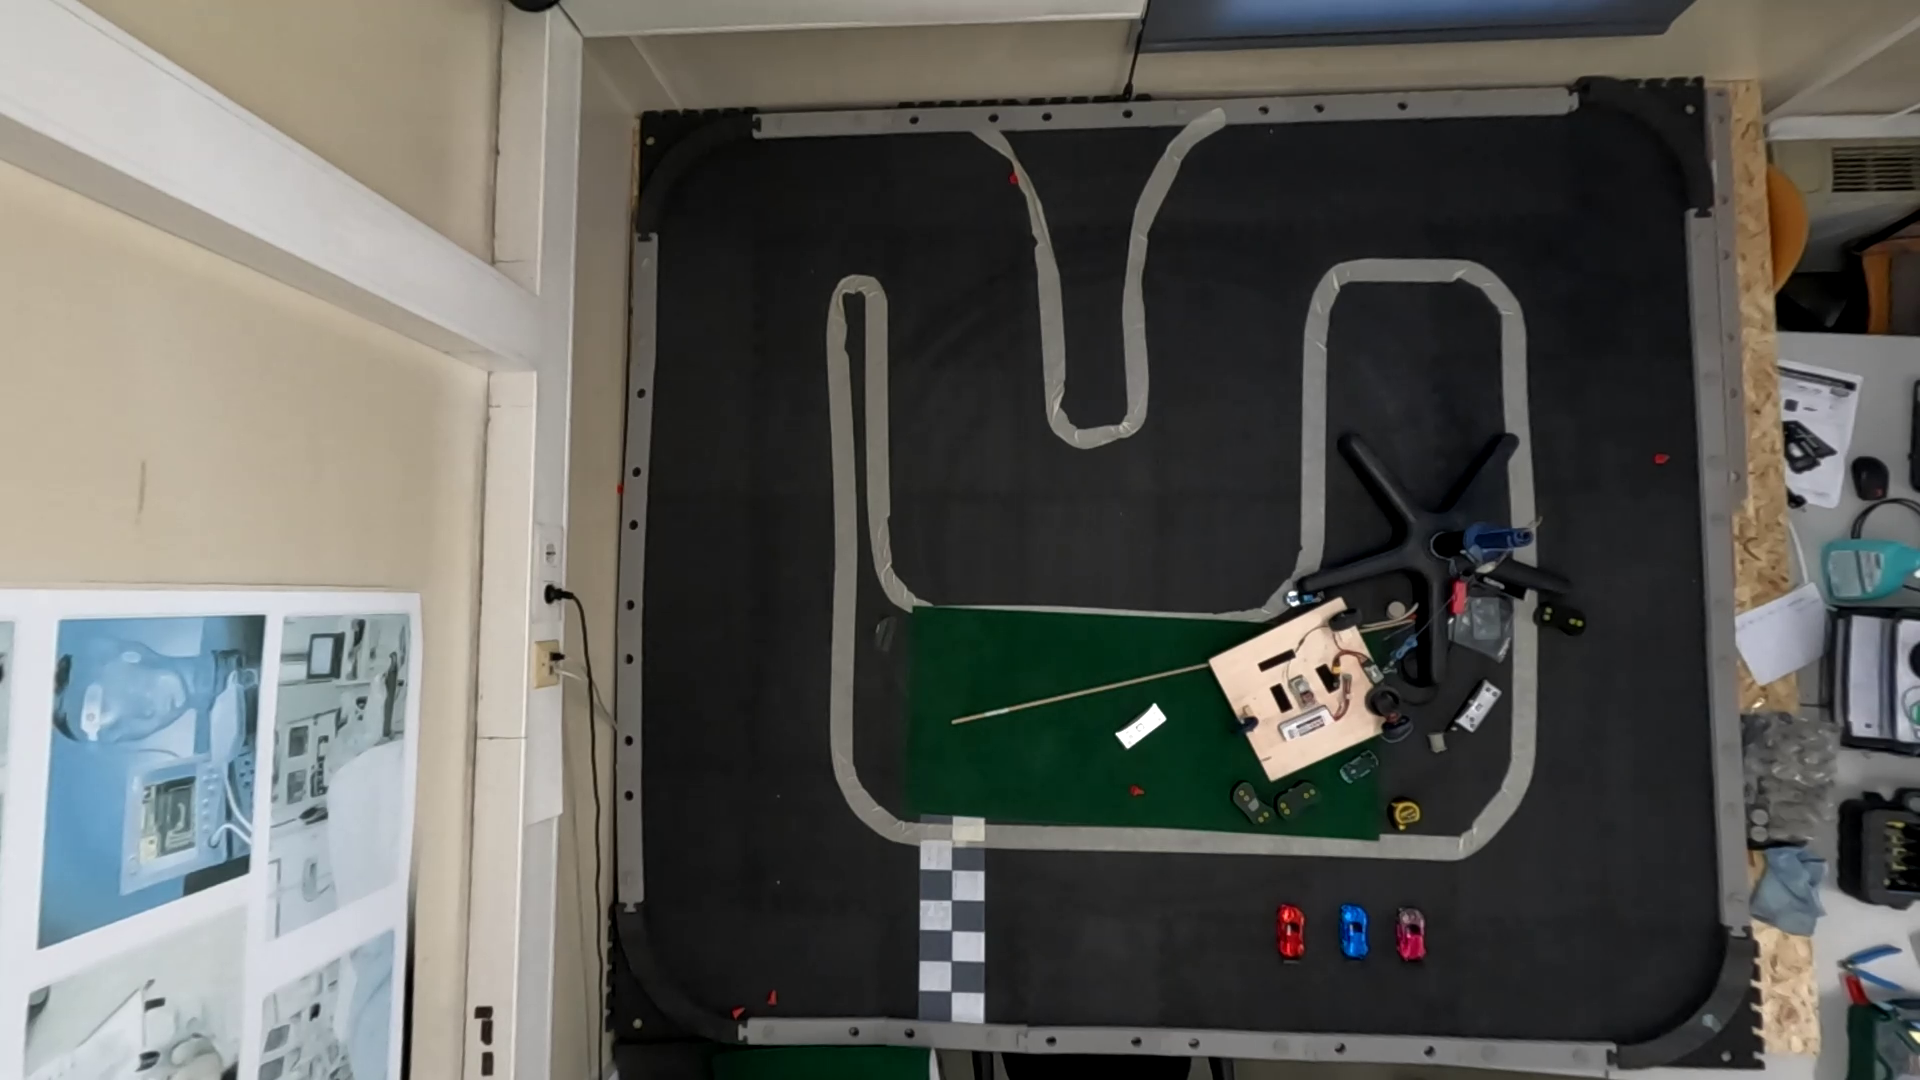
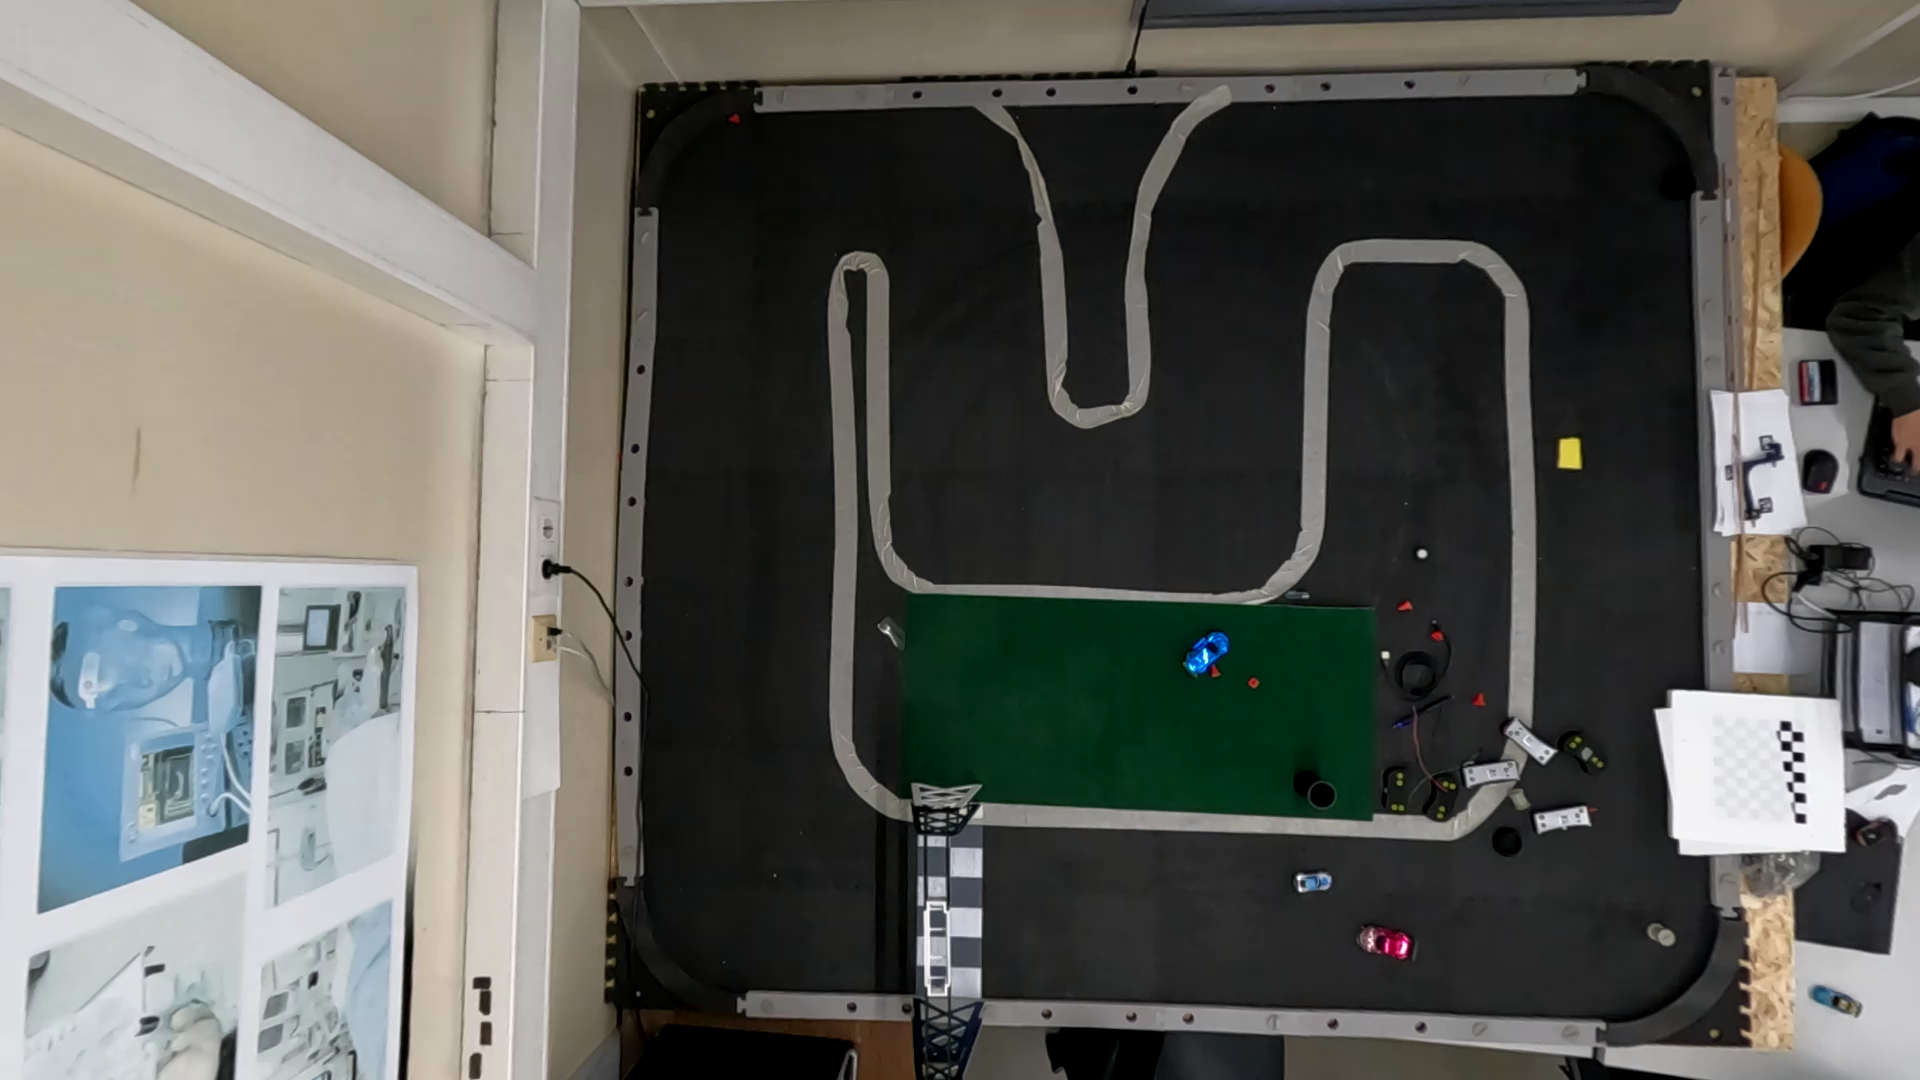
Yellow instead of red

diff --git a/src/Camera/camera.py b/src/Camera/camera.py
@@ -187,30 +187,31 @@ class camera:
             # Convert the image to HSV color space
             image_hsv = cv2.cvtColor(image, cv2.COLOR_BGR2HSV)
 
-            # Define the lower and upper bounds for red color in HSV
+            '''# Define the lower and upper bounds for red color in HSV
             lower_red1 = np.array([0, 100, 100])
             upper_red1 = np.array([5, 255, 255])
             lower_red2 = np.array([175, 100, 100])
-            upper_red2 = np.array([180, 255, 255])
+            upper_red2 = np.array([180, 255, 255])'''
+            lower_yellow = np.array([20, 100, 100])   # Lower bound for yellow
+            upper_yellow = np.array([30, 255, 255])   # Upper bound for yellow
+
 
             # Create masks using the specified ranges
-            mask1 = cv2.inRange(image_hsv, lower_red1, upper_red1)
-            mask2 = cv2.inRange(image_hsv, lower_red2, upper_red2)
+            mask1 = cv2.inRange(image_hsv, lower_yellow, upper_yellow)
+            #mask2 = cv2.inRange(image_hsv, lower_red2, upper_red2)
 
-            # Combine masks
-            mask = cv2.bitwise_or(mask1, mask2)
 
             # Perform morphological operations to clean up the mask
-            kernel = np.ones((5, 5), np.uint8)  # Increase kernel size for better noise reduction
-            mask = cv2.morphologyEx(mask, cv2.MORPH_CLOSE, kernel)
-            mask = cv2.morphologyEx(mask, cv2.MORPH_OPEN, kernel)  # Additional opening to remove smaller noise
+            kernel = np.ones((5, 5), np.uint8)
+            mask1 = cv2.morphologyEx(mask1, cv2.MORPH_CLOSE, kernel)
+            mask1 = cv2.morphologyEx(mask1, cv2.MORPH_OPEN, kernel)
 
             # Find contours in the mask
-            contours, _ = cv2.findContours(mask, cv2.RETR_EXTERNAL, cv2.CHAIN_APPROX_SIMPLE)
+            contours, _ = cv2.findContours(mask1, cv2.RETR_EXTERNAL, cv2.CHAIN_APPROX_SIMPLE)
 
             # Filter contours based on area
-            min_area = 500  # Adjust minimum area threshold
-            max_area = 1500  # Adjust maximum area threshold
+            min_area = 500
+            max_area = 1500
             filtered_contours = [cnt for cnt in contours if min_area < cv2.contourArea(cnt) < max_area]
 
             # Draw the filtered contours on the original image
@@ -229,7 +230,7 @@ class camera:
                         cY = int(moments["m01"] / moments["m00"])
                         centroid = (cX, cY)
                         max_contour_area = area
-
+            
             # Draw the centroid on the result image
             if centroid is not None:
                 cv2.circle(result, centroid, 10, (255, 255, 255), -1)

diff --git a/src/Camera/test.py b/src/Camera/test.py
@@ -55,26 +55,27 @@ def detect_cars(image):
         # Convert the image to HSV color space
         image_hsv = cv2.cvtColor(image, cv2.COLOR_BGR2HSV)
 
-        # Define the lower and upper bounds for red color in HSV
+        '''# Define the lower and upper bounds for red color in HSV
         lower_red1 = np.array([0, 100, 100])
         upper_red1 = np.array([5, 255, 255])
         lower_red2 = np.array([175, 100, 100])
-        upper_red2 = np.array([180, 255, 255])
+        upper_red2 = np.array([180, 255, 255])'''
+        lower_yellow = np.array([20, 100, 100])   # Lower bound for yellow
+        upper_yellow = np.array([30, 255, 255])   # Upper bound for yellow
+
 
         # Create masks using the specified ranges
-        mask1 = cv2.inRange(image_hsv, lower_red1, upper_red1)
-        mask2 = cv2.inRange(image_hsv, lower_red2, upper_red2)
+        mask1 = cv2.inRange(image_hsv, lower_yellow, upper_yellow)
+        #mask2 = cv2.inRange(image_hsv, lower_red2, upper_red2)
 
-        # Combine masks
-        mask = cv2.bitwise_or(mask1, mask2)
 
         # Perform morphological operations to clean up the mask
         kernel = np.ones((5, 5), np.uint8)
-        mask = cv2.morphologyEx(mask, cv2.MORPH_CLOSE, kernel)
-        mask = cv2.morphologyEx(mask, cv2.MORPH_OPEN, kernel)
+        mask1 = cv2.morphologyEx(mask1, cv2.MORPH_CLOSE, kernel)
+        mask1 = cv2.morphologyEx(mask1, cv2.MORPH_OPEN, kernel)
 
         # Find contours in the mask
-        contours, _ = cv2.findContours(mask, cv2.RETR_EXTERNAL, cv2.CHAIN_APPROX_SIMPLE)
+        contours, _ = cv2.findContours(mask1, cv2.RETR_EXTERNAL, cv2.CHAIN_APPROX_SIMPLE)
 
         # Filter contours based on area
         min_area = 500
@@ -160,6 +161,7 @@ def detect_cars(image):
 
         return centroid, result
     
+    
     def adjust_intensity(image, alpha=0.35, beta=0):
         # Perform intensity adjustment using alpha blending
         adjusted_image = cv2.convertScaleAbs(image, alpha=alpha, beta=beta)
@@ -206,7 +208,7 @@ cv2.imwrite('temp.jpg', racetrack)
 racetrack_matlike = cv2.imread('temp.jpg', cv2.IMREAD_COLOR)
 
 centroids, res = detect_cars(racetrack_matlike)
-print(centroids[2])
+print(centroids)
 
 if racetrack_matlike is not None:
     im = cv2.resize(res, (960, 540))
